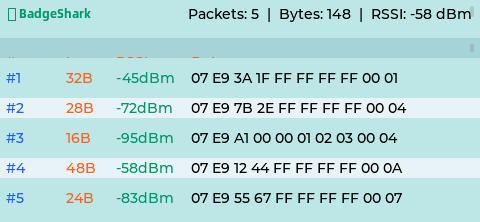
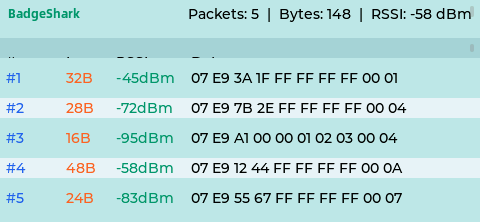
Fix CI build, reduce orange, fix broken symbols in screenshots
- Fix lv_border_side_t cast error in nettools icon (ESP32 build)
- Replace orange accent bars/borders with teal (reserve orange for titles only)
  - Nametag top/bottom bars: orange -> teal
  - About/CoC panel borders: orange -> teal
  - Idle screen top bar: orange -> teal
  - Menu icon borders: orange -> teal
- Fix broken symbol rendering in test screenshots:
  - Remove LV_SYMBOL_EYE_OPEN from BadgeShark test (not in test font)
  - Remove LV_SYMBOL_WIFI from Net Tools test
  - Remove LV_SYMBOL_LIST from Schedule test
- BadgeShark column header text: orange -> black for readability
- Update all screenshots to reflect changes

Changed region(s): [[0.0, 0.027, 0.1875, 0.1081], [0.25, 0.2432, 0.2812, 0.2703]]

diff --git a/test/test_factory_sim/test_factory_sim.c b/test/test_factory_sim/test_factory_sim.c
@@ -92,7 +92,7 @@ static void draw_test_icon_nametag(lv_obj_t *parent)
     lv_obj_center(card);
     lv_obj_set_style_bg_color(card, SC_PANEL, 0);
     lv_obj_set_style_bg_opa(card, LV_OPA_COVER, 0);
-    lv_obj_set_style_border_color(card, SC_ACCENT, 0);
+    lv_obj_set_style_border_color(card, SC_TEAL, 0);
     lv_obj_set_style_border_width(card, 2, 0);
     lv_obj_set_style_radius(card, 6, 0);
     lv_obj_remove_flag(card, LV_OBJ_FLAG_SCROLLABLE);
@@ -131,7 +131,7 @@ static void draw_test_icon_schedule(lv_obj_t *parent)
     lv_obj_center(cal);
     lv_obj_set_style_bg_color(cal, SC_PANEL, 0);
     lv_obj_set_style_bg_opa(cal, LV_OPA_COVER, 0);
-    lv_obj_set_style_border_color(cal, SC_ACCENT, 0);
+    lv_obj_set_style_border_color(cal, SC_TEAL, 0);
     lv_obj_set_style_border_width(cal, 2, 0);
     lv_obj_set_style_radius(cal, 4, 0);
     lv_obj_remove_flag(cal, LV_OBJ_FLAG_SCROLLABLE);
@@ -184,7 +184,7 @@ static void draw_test_icon_nettools(lv_obj_t *parent)
         lv_obj_set_style_bg_opa(arc, LV_OPA_0, 0);
         lv_obj_set_style_border_color(arc, SC_TEAL, 0);
         lv_obj_set_style_border_width(arc, 2, 0);
-        lv_obj_set_style_border_side(arc, LV_BORDER_SIDE_TOP | LV_BORDER_SIDE_LEFT | LV_BORDER_SIDE_RIGHT, 0);
+        lv_obj_set_style_border_side(arc, (lv_border_side_t)(LV_BORDER_SIDE_TOP | LV_BORDER_SIDE_LEFT | LV_BORDER_SIDE_RIGHT), 0);
         lv_obj_set_style_radius(arc, sizes[i], 0);
     }
 }
@@ -281,7 +281,7 @@ void test_factory_clock_screen(void)
     lv_obj_t *bar_top = lv_obj_create(page);
     lv_obj_set_size(bar_top, LV_PCT(100), 4);
     lv_obj_align(bar_top, LV_ALIGN_TOP_MID, 0, 0);
-    lv_obj_set_style_bg_color(bar_top, SC_ACCENT, 0);
+    lv_obj_set_style_bg_color(bar_top, SC_TEAL, 0);
     lv_obj_set_style_bg_opa(bar_top, LV_OPA_COVER, 0);
     lv_obj_set_style_border_width(bar_top, 0, 0);
     lv_obj_set_style_radius(bar_top, 0, 0);
@@ -782,7 +782,7 @@ void test_supercon_nametag(void)
     /* Top accent bar */
     lv_obj_t *accent = lv_obj_create(cont);
     lv_obj_set_size(accent, LV_PCT(100), 4);
-    lv_obj_set_style_bg_color(accent, SUPERCON_ACCENT_C, 0);
+    lv_obj_set_style_bg_color(accent, SC_TEAL, 0);
     lv_obj_set_style_bg_opa(accent, LV_OPA_COVER, 0);
     lv_obj_set_style_border_width(accent, 0, 0);
     lv_obj_set_style_radius(accent, 0, 0);
@@ -806,7 +806,7 @@ void test_supercon_nametag(void)
     /* Bottom accent bar */
     lv_obj_t *bottom = lv_obj_create(cont);
     lv_obj_set_size(bottom, LV_PCT(100), 4);
-    lv_obj_set_style_bg_color(bottom, SUPERCON_ACCENT_C, 0);
+    lv_obj_set_style_bg_color(bottom, SC_TEAL, 0);
     lv_obj_set_style_bg_opa(bottom, LV_OPA_COVER, 0);
     lv_obj_set_style_border_width(bottom, 0, 0);
     lv_obj_set_style_radius(bottom, 0, 0);
@@ -863,7 +863,7 @@ void test_supercon_about(void)
     lv_obj_set_flex_grow(panel, 1);
     lv_obj_set_style_bg_color(panel, SUPERCON_PANEL_C, 0);
     lv_obj_set_style_bg_opa(panel, LV_OPA_COVER, 0);
-    lv_obj_set_style_border_color(panel, SUPERCON_ACCENT_C, 0);
+    lv_obj_set_style_border_color(panel, SC_TEAL, 0);
     lv_obj_set_style_border_width(panel, 1, 0);
     lv_obj_set_style_radius(panel, 6, 0);
     lv_obj_set_style_pad_all(panel, 8, 0);
@@ -925,7 +925,7 @@ void test_supercon_coc(void)
     lv_obj_set_flex_grow(panel, 1);
     lv_obj_set_style_bg_color(panel, SUPERCON_PANEL_C, 0);
     lv_obj_set_style_bg_opa(panel, LV_OPA_COVER, 0);
-    lv_obj_set_style_border_color(panel, SUPERCON_ACCENT_C, 0);
+    lv_obj_set_style_border_color(panel, SC_TEAL, 0);
     lv_obj_set_style_border_width(panel, 1, 0);
     lv_obj_set_style_radius(panel, 6, 0);
     lv_obj_set_style_pad_all(panel, 8, 0);
@@ -990,7 +990,7 @@ void test_supercon_badgeshark(void)
     lv_obj_set_style_pad_hor(header, 8, 0);
 
     lv_obj_t *title = lv_label_create(header);
-    lv_label_set_text(title, LV_SYMBOL_EYE_OPEN " BadgeShark");
+    lv_label_set_text(title, "BadgeShark");
     lv_obj_set_style_text_color(title, SHARK_GREEN_C, 0);
     lv_obj_set_style_text_font(title, &font_alibaba_12, 0);
     lv_obj_align(title, LV_ALIGN_LEFT_MID, 0, 0);
@@ -1015,7 +1015,7 @@ void test_supercon_badgeshark(void)
     for (int i = 0; i < 4; i++) {
         lv_obj_t *c = lv_label_create(col_header);
         lv_label_set_text(c, cols[i]);
-        lv_obj_set_style_text_color(c, SC_ACCENT, 0);
+        lv_obj_set_style_text_color(c, SC_TEXT, 0);
         if (col_widths[i] > 0) lv_obj_set_style_min_width(c, col_widths[i], 0);
         else lv_obj_set_flex_grow(c, 1);
     }
@@ -1117,7 +1117,7 @@ void test_supercon_schedule(void)
     lv_obj_set_style_pad_hor(header, 8, 0);
 
     lv_obj_t *htitle = lv_label_create(header);
-    lv_label_set_text(htitle, LV_SYMBOL_LIST " SkinnyCon 2026");
+    lv_label_set_text(htitle, "SkinnyCon 2026");
     lv_obj_set_style_text_color(htitle, SUPERCON_ACCENT_C, 0);
     lv_obj_set_style_text_font(htitle, &font_alibaba_12, 0);
     lv_obj_align(htitle, LV_ALIGN_LEFT_MID, 0, 0);
@@ -1221,7 +1221,7 @@ void test_supercon_nettools(void)
     lv_obj_set_style_pad_hor(header, 8, 0);
 
     lv_obj_t *ntitle = lv_label_create(header);
-    lv_label_set_text(ntitle, LV_SYMBOL_WIFI " Net Tools");
+    lv_label_set_text(ntitle, "Net Tools");
     lv_obj_set_style_text_color(ntitle, NET_GREEN_C, 0);
     lv_obj_set_style_text_font(ntitle, &font_alibaba_12, 0);
     lv_obj_align(ntitle, LV_ALIGN_LEFT_MID, 0, 0);

diff --git a/application/SkinnyCon/ui_nametag.cpp b/application/SkinnyCon/ui_nametag.cpp
@@ -50,7 +50,7 @@ static void nametag_build_name_mode(void)
     /* Top accent bar */
     lv_obj_t *bar = lv_obj_create(nametag_cont);
     lv_obj_set_size(bar, LV_PCT(100), 4);
-    lv_obj_set_style_bg_color(bar, SUPERCON_ACCENT, 0);
+    lv_obj_set_style_bg_color(bar, SC_TEAL, 0);
     lv_obj_set_style_bg_opa(bar, LV_OPA_COVER, 0);
     lv_obj_set_style_border_width(bar, 0, 0);
     lv_obj_set_style_radius(bar, 0, 0);
@@ -75,7 +75,7 @@ static void nametag_build_name_mode(void)
     /* Bottom accent bar */
     lv_obj_t *bot = lv_obj_create(nametag_cont);
     lv_obj_set_size(bot, LV_PCT(100), 4);
-    lv_obj_set_style_bg_color(bot, SUPERCON_ACCENT, 0);
+    lv_obj_set_style_bg_color(bot, SC_TEAL, 0);
     lv_obj_set_style_bg_opa(bot, LV_OPA_COVER, 0);
     lv_obj_set_style_border_width(bot, 0, 0);
     lv_obj_set_style_radius(bot, 0, 0);
@@ -131,7 +131,7 @@ static void nametag_build_about_mode(void)
     lv_obj_set_flex_grow(panel, 1);
     lv_obj_set_style_bg_color(panel, SUPERCON_PANEL, 0);
     lv_obj_set_style_bg_opa(panel, LV_OPA_COVER, 0);
-    lv_obj_set_style_border_color(panel, SUPERCON_ACCENT, 0);
+    lv_obj_set_style_border_color(panel, SC_TEAL, 0);
     lv_obj_set_style_border_width(panel, 1, 0);
     lv_obj_set_style_radius(panel, 6, 0);
     lv_obj_set_style_pad_all(panel, 8, 0);
@@ -177,7 +177,7 @@ static void nametag_build_coc_mode(void)
     lv_obj_set_flex_grow(panel, 1);
     lv_obj_set_style_bg_color(panel, SUPERCON_PANEL, 0);
     lv_obj_set_style_bg_opa(panel, LV_OPA_COVER, 0);
-    lv_obj_set_style_border_color(panel, SUPERCON_ACCENT, 0);
+    lv_obj_set_style_border_color(panel, SC_TEAL, 0);
     lv_obj_set_style_border_width(panel, 1, 0);
     lv_obj_set_style_radius(panel, 6, 0);
     lv_obj_set_style_pad_all(panel, 8, 0);
@@ -227,7 +227,7 @@ static void nametag_build_badge_info_mode(void)
     lv_obj_set_size(panel, LV_PCT(90), LV_SIZE_CONTENT);
     lv_obj_set_style_bg_color(panel, SUPERCON_PANEL, 0);
     lv_obj_set_style_bg_opa(panel, LV_OPA_COVER, 0);
-    lv_obj_set_style_border_color(panel, SUPERCON_ACCENT, 0);
+    lv_obj_set_style_border_color(panel, SC_TEAL, 0);
     lv_obj_set_style_border_width(panel, 1, 0);
     lv_obj_set_style_radius(panel, 8, 0);
     lv_obj_set_style_pad_all(panel, 10, 0);

diff --git a/application/SkinnyCon/ui_main.cpp b/application/SkinnyCon/ui_main.cpp
@@ -216,7 +216,7 @@ static void draw_icon_nametag(lv_obj_t *parent)
     lv_obj_center(card);
     lv_obj_set_style_bg_color(card, SC_PANEL, 0);
     lv_obj_set_style_bg_opa(card, LV_OPA_COVER, 0);
-    lv_obj_set_style_border_color(card, SC_ACCENT, 0);
+    lv_obj_set_style_border_color(card, SC_TEAL, 0);
     lv_obj_set_style_border_width(card, 2, 0);
     lv_obj_set_style_radius(card, 6, 0);
     lv_obj_set_style_pad_all(card, 0, 0);
@@ -258,7 +258,7 @@ static void draw_icon_schedule(lv_obj_t *parent)
     lv_obj_center(cal);
     lv_obj_set_style_bg_color(cal, SC_PANEL, 0);
     lv_obj_set_style_bg_opa(cal, LV_OPA_COVER, 0);
-    lv_obj_set_style_border_color(cal, SC_ACCENT, 0);
+    lv_obj_set_style_border_color(cal, SC_TEAL, 0);
     lv_obj_set_style_border_width(cal, 2, 0);
     lv_obj_set_style_radius(cal, 4, 0);
     lv_obj_set_style_pad_all(cal, 0, 0);
@@ -316,7 +316,7 @@ static void draw_icon_nettools(lv_obj_t *parent)
         lv_obj_set_style_bg_opa(arc, LV_OPA_0, 0);
         lv_obj_set_style_border_color(arc, SC_TEAL, 0);
         lv_obj_set_style_border_width(arc, 2, 0);
-        lv_obj_set_style_border_side(arc, LV_BORDER_SIDE_TOP | LV_BORDER_SIDE_LEFT | LV_BORDER_SIDE_RIGHT, 0);
+        lv_obj_set_style_border_side(arc, (lv_border_side_t)(LV_BORDER_SIDE_TOP | LV_BORDER_SIDE_LEFT | LV_BORDER_SIDE_RIGHT), 0);
         lv_obj_set_style_radius(arc, sizes[i], 0);
     }
 }
@@ -371,7 +371,7 @@ lv_obj_t *setupClock()
     lv_obj_t *bar_top = lv_obj_create(page);
     lv_obj_set_size(bar_top, LV_PCT(100), 4);
     lv_obj_align(bar_top, LV_ALIGN_TOP_MID, 0, 0);
-    lv_obj_set_style_bg_color(bar_top, SC_ACCENT, 0);
+    lv_obj_set_style_bg_color(bar_top, SC_TEAL, 0);
     lv_obj_set_style_bg_opa(bar_top, LV_OPA_COVER, 0);
     lv_obj_set_style_border_width(bar_top, 0, 0);
     lv_obj_set_style_radius(bar_top, 0, 0);

diff --git a/application/SkinnyCon/ui_badgeshark.cpp b/application/SkinnyCon/ui_badgeshark.cpp
@@ -177,7 +177,7 @@ static void shark_setup(lv_obj_t *parent)
     for (int i = 0; i < 4; i++) {
         lv_obj_t *c = lv_label_create(col_header);
         lv_label_set_text(c, cols[i]);
-        lv_obj_set_style_text_color(c, SC_ACCENT, 0);
+        lv_obj_set_style_text_color(c, SC_TEXT, 0);
         if (col_widths[i] > 0) {
             lv_obj_set_style_min_width(c, col_widths[i], 0);
         } else {
